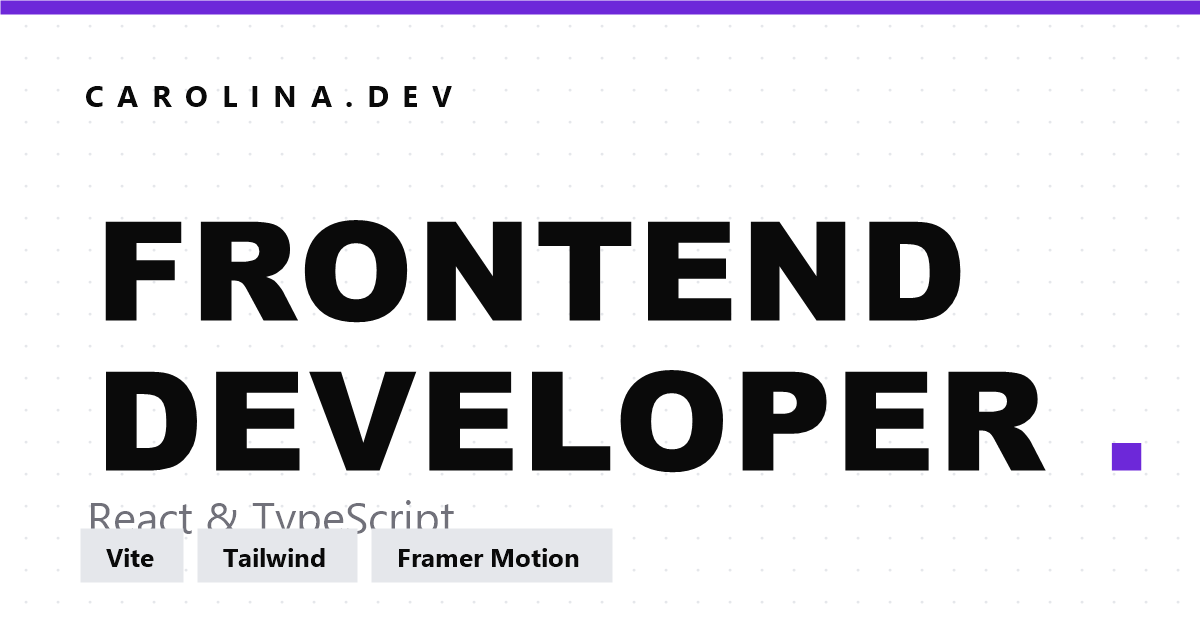
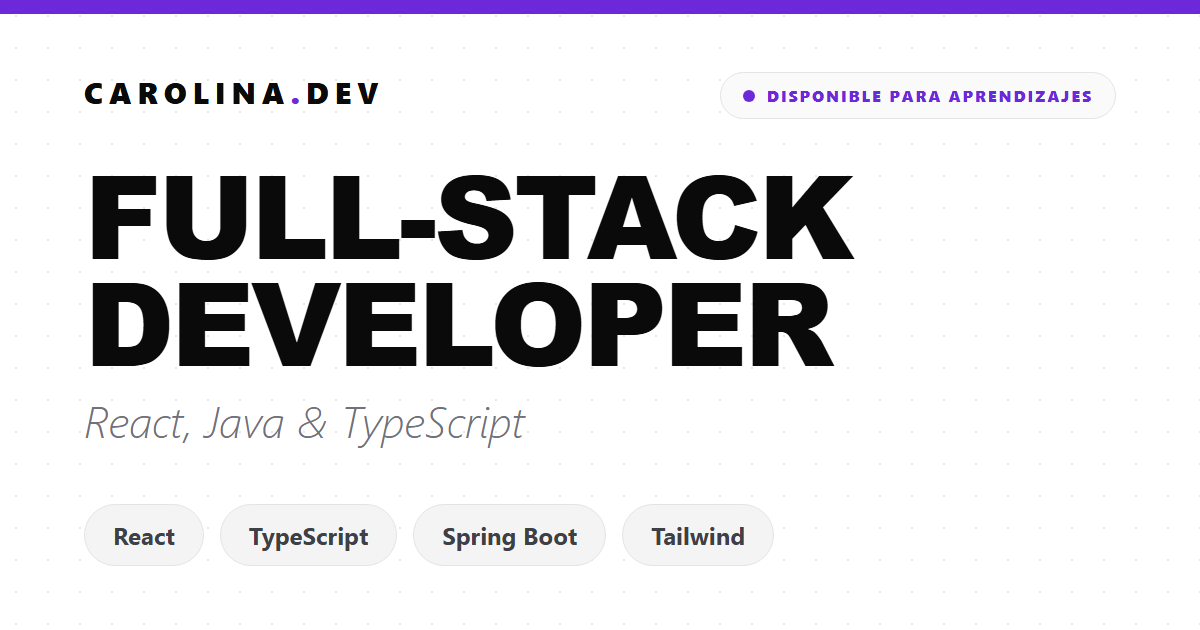
Corrige SEO: canonical y og:url hacia Netlify, robots, sitemap y og-image actualizada

diff --git a/index.html b/index.html
@@ -6,50 +6,69 @@
     <meta name="viewport" content="width=device-width, initial-scale=1.0" />
     <meta name="theme-color" content="#6d28d9" />
 
-    <title>Carolina Blanquicett | Frontend Developer</title>
+    <title>Carolina Blanquicett | Full-Stack Developer</title>
     <meta
       name="description"
-      content="Portafolio de Carolina Blanquicett, Frontend Developer de Cartagena, Colombia. Aplicaciones web modernas y responsivas con React, Next.js y TypeScript."
+      content="Portafolio de Carolina Blanquicett, Full-Stack Developer de Cartagena, Colombia. Aplicaciones web con React, Next.js, TypeScript y Spring Boot. Disponible para aprendizajes y prácticas de ingeniería de software."
     />
     <meta name="author" content="Carolina Blanquicett" />
     <meta name="robots" content="index, follow" />
+    <link rel="canonical" href="https://portafolio-cbdvxz.netlify.app/" />
 
     <meta property="og:type" content="website" />
     <meta property="og:locale" content="es_CO" />
-    <meta property="og:site_name" content="Carolina Blanquicett | Frontend Developer" />
-    <meta property="og:title" content="Carolina Blanquicett | Frontend Developer" />
+    <meta property="og:site_name" content="Carolina Blanquicett | Full-Stack Developer" />
+    <meta property="og:title" content="Carolina Blanquicett | Full-Stack Developer" />
     <meta
       property="og:description"
-      content="Aplicaciones web modernas, funcionales y responsivas con React, Next.js y TypeScript. Cartagena, Colombia."
+      content="Aplicaciones web modernas, funcionales y responsivas con React, TypeScript y Spring Boot. Cartagena, Colombia."
     />
-    <meta property="og:url" content="https://github.com/cbdvxzDev/Mi-Portafolio-Web" />
-    <meta property="og:image" content="https://raw.githubusercontent.com/cbdvxzDev/Mi-Portafolio-Web/main/public/og-image.png" />
+    <meta property="og:url" content="https://portafolio-cbdvxz.netlify.app/" />
+    <meta property="og:image" content="https://portafolio-cbdvxz.netlify.app/og-image.png" />
     <meta property="og:image:type" content="image/png" />
     <meta property="og:image:width" content="1200" />
     <meta property="og:image:height" content="630" />
-    <meta property="og:image:alt" content="Carolina Blanquicett, Frontend Developer. React y TypeScript." />
+    <meta property="og:image:alt" content="Carolina Blanquicett, Full-Stack Developer. React, TypeScript y Spring Boot." />
 
     <meta name="twitter:card" content="summary_large_image" />
-    <meta name="twitter:title" content="Carolina Blanquicett | Frontend Developer" />
+    <meta name="twitter:title" content="Carolina Blanquicett | Full-Stack Developer" />
     <meta
       name="twitter:description"
-      content="Aplicaciones web modernas, funcionales y responsivas con React, Next.js y TypeScript."
+      content="Aplicaciones web modernas con React, TypeScript y Spring Boot."
     />
-    <meta name="twitter:image" content="https://raw.githubusercontent.com/cbdvxzDev/Mi-Portafolio-Web/main/public/og-image.png" />
-    <meta name="twitter:image:alt" content="Carolina Blanquicett, Frontend Developer. React y TypeScript." />
+    <meta name="twitter:image" content="https://portafolio-cbdvxz.netlify.app/og-image.png" />
+    <meta name="twitter:image:alt" content="Carolina Blanquicett, Full-Stack Developer. React, TypeScript y Spring Boot." />
 
     <script type="application/ld+json">
       {
         "@context": "https://schema.org",
         "@type": "Person",
         "name": "Carolina Blanquicett",
-        "jobTitle": "Frontend Developer",
-        "email": "mailto:carodeveloper02@gmail.com",
+        "jobTitle": "Full-Stack Developer",
+        "email": "carodeveloper02@gmail.com",
+        "url": "https://portafolio-cbdvxz.netlify.app/",
         "address": {
           "@type": "PostalAddress",
           "addressLocality": "Cartagena",
           "addressCountry": "CO"
         },
+        "alumniOf": {
+          "@type": "CollegeOrUniversity",
+          "name": "Fundación Universitaria Tecnológico Comfenalco"
+        },
+        "knowsAbout": [
+          "JavaScript",
+          "TypeScript",
+          "React",
+          "Next.js",
+          "Java",
+          "Spring Boot",
+          "MongoDB",
+          "Docker",
+          "Tailwind CSS",
+          "Desarrollo de software",
+          "Ingeniería de sistemas"
+        ],
         "sameAs": [
           "https://github.com/cbdvxzDev",
           "https://www.linkedin.com/in/carolina-blanquicett-devoz-523068379/"
